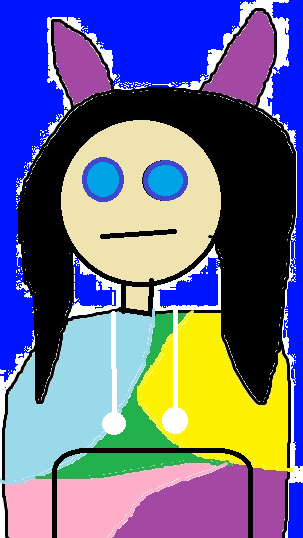
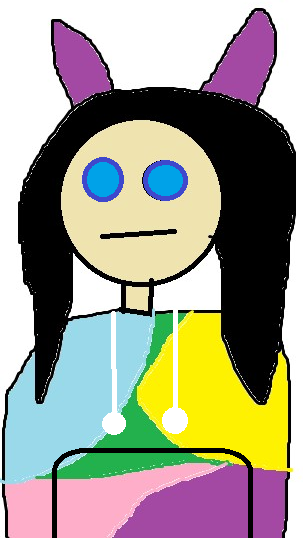
Add files via upload

diff --git a/ExternWORLD.html b/ExternWORLD.html
@@ -1,1 +1,1 @@
-<!DOCTYPE html><html lang="en"><head><meta charset="UTF-8"><meta name="viewport" content="width=device-width, initial-scale=1.0"><title>ExternWORLD</title><style>body {font-family: Arial, Helvetica, sans-serif;} #draggable {width: 150px; height: 250px; cursor: grab; position: absolute;} .context-menu {display: none; position: absolute; background-color: #fff; border: 1px solid #ccc; padding: 5px 0;} .context-menu-item {padding: 5px 20px; cursor: pointer;} .context-menu-item:hover {background-color: #f0f0f0;}</style></head><body style="background-color:blue;"><img id="draggable" src="test.png" alt="Sam"><div id="context-menu" class="context-menu"><div class="context-menu-item" id="hide-option">Hide</div></div><script>document.addEventListener('DOMContentLoaded', () => {const img = document.getElementById('draggable'); const contextMenu = document.getElementById('context-menu'); const hideOption = document.getElementById('hide-option'); const randomPosition = () => {const x = Math.random() * (window.innerWidth - img.clientWidth); const y = Math.random() * (window.innerHeight - img.clientHeight); img.style.left = x + 'px'; img.style.top = y + 'px'; }; randomPosition(); img.addEventListener('mousedown', (e) => { if (e.button === 2) { e.preventDefault(); contextMenu.style.display = 'block'; contextMenu.style.left = e.pageX + 'px'; contextMenu.style.top = e.pageY + 'px'; } }); document.addEventListener('click', (e) => { if (e.target !== img && e.target !== hideOption) { contextMenu.style.display = 'none'; } }); hideOption.addEventListener('click', () => { img.style.display = 'none'; contextMenu.style.display = 'none'; }); img.addEventListener('mousedown', (e) => { if (e.button === 0) { let shiftX = e.clientX - img.getBoundingClientRect().left; let shiftY = e.clientY - img.getBoundingClientRect().top; const moveAt = (pageX, pageY) => { img.style.left = pageX - shiftX + 'px'; img.style.top = pageY - shiftY + 'px'; }; moveAt(e.pageX, e.pageY); const onMouseMove = (event) => { moveAt(event.pageX, event.pageY); }; document.addEventListener('mousemove', onMouseMove); img.addEventListener('mouseup', () => { document.removeEventListener('mousemove', onMouseMove); img.onmouseup = null; }); img.ondragstart = () => false; } }); document.addEventListener('contextmenu', event => event.preventDefault()); });</script><iframe src="https://xat.com/embed/chat.php#id=220527188&gn=SamSMASH" width="650" height="486" frameborder="0" scrolling="no"></iframe><br><small><a target="_BLANK" href="https://xat.com/web_gear/chat/embed.php?id=220527188&GroupName=SamSMASH">Get ExternWORLD chat group</a> | <a target="_BLANK" href="https://xat.com/SamSMASH"> Go to ExternWORLD website</a></small><br><h1>ExternWORLD v1.2</h1><p>If you have any complaints, forward them to daveplaysgames#4411 on Discord.</p></body></html>
+<!DOCTYPE html><html lang="en"><head><meta charset="UTF-8"><meta name="viewport" content="width=device-width, initial-scale=1.0"><title>ExternWORLD</title><style>body {font-family: Arial, Helvetica, sans-serif;} #draggable {width: 150px; height: 250px; cursor: grab; position: absolute;} .context-menu {display: none; position: absolute; background-color: #fff; border: 1px solid #ccc; padding: 5px 0;} .context-menu-item {padding: 5px 20px; cursor: pointer;} .context-menu-item:hover {background-color: #f0f0f0;}</style></head><body style="background-color:#c9ecf0;"><img id="draggable" src="test.png" alt="Sam"><div id="context-menu" class="context-menu"><div class="context-menu-item" id="hide-option">Hide</div></div><script>document.addEventListener('DOMContentLoaded', () => {const img = document.getElementById('draggable'); const contextMenu = document.getElementById('context-menu'); const hideOption = document.getElementById('hide-option'); const randomPosition = () => {const x = Math.random() * (window.innerWidth - img.clientWidth); const y = Math.random() * (window.innerHeight - img.clientHeight); img.style.left = x + 'px'; img.style.top = y + 'px'; }; randomPosition(); img.addEventListener('mousedown', (e) => { if (e.button === 2) { e.preventDefault(); contextMenu.style.display = 'block'; contextMenu.style.left = e.pageX + 'px'; contextMenu.style.top = e.pageY + 'px'; } }); document.addEventListener('click', (e) => { if (e.target !== img && e.target !== hideOption) { contextMenu.style.display = 'none'; } }); hideOption.addEventListener('click', () => { img.style.display = 'none'; contextMenu.style.display = 'none'; }); img.addEventListener('mousedown', (e) => { if (e.button === 0) { let shiftX = e.clientX - img.getBoundingClientRect().left; let shiftY = e.clientY - img.getBoundingClientRect().top; const moveAt = (pageX, pageY) => { img.style.left = pageX - shiftX + 'px'; img.style.top = pageY - shiftY + 'px'; }; moveAt(e.pageX, e.pageY); const onMouseMove = (event) => { moveAt(event.pageX, event.pageY); }; document.addEventListener('mousemove', onMouseMove); img.addEventListener('mouseup', () => { document.removeEventListener('mousemove', onMouseMove); img.onmouseup = null; }); img.ondragstart = () => false; } }); document.addEventListener('contextmenu', event => event.preventDefault()); });</script><iframe src="https://xat.com/embed/chat.php#id=220527188&gn=SamSMASH" width="650" height="486" frameborder="0" scrolling="no"></iframe><br><small><a target="_BLANK" href="https://xat.com/web_gear/chat/embed.php?id=220527188&GroupName=SamSMASH">Get ExternWORLD chat group</a> | <a target="_BLANK" href="https://xat.com/SamSMASH"> Go to ExternWORLD website</a></small><br><h1>ExternWORLD v1.2</h1><p>If you have any complaints, forward them to daveplaysgames#4411 on Discord.</p></body></html>
